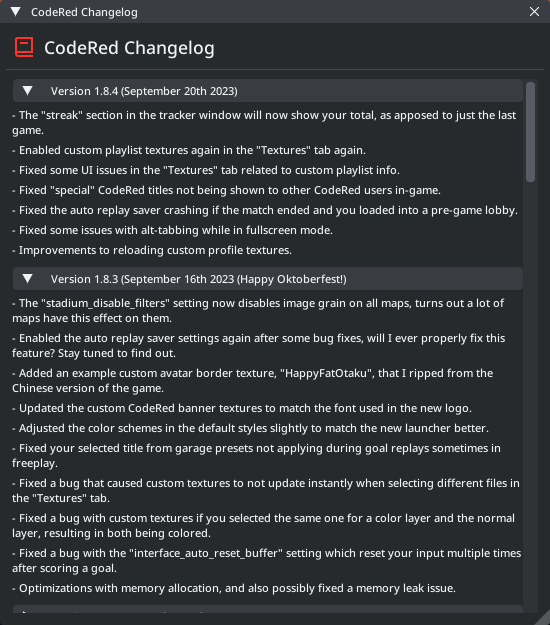
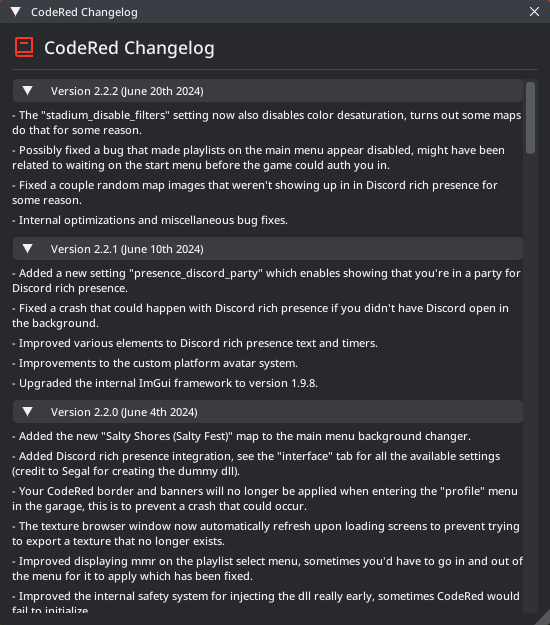
Initial Commit

Changed region(s): [[0.0, 0.1216, 0.9582, 1.0], [0.9582, 0.2432, 0.9891, 0.304]]

diff --git a/changelog.html b/changelog.html
@@ -53,6 +53,7 @@
 		    <nav id="docs-nav" class="docs-nav navbar">
 			    <ul class="section-items list-unstyled nav flex-column pb-3">
                     <li class="nav-item section-title mt-3"><a class="nav-link scrollto" href="#section-3"><span class="theme-icon-holder me-2"><i class="fas fa-book"></i></span>Changelog (Beta)</a></li>
+                    <li class="nav-item"><a class="nav-link scrollto" href="#item-3-2-2">Version 2.2.2</a></li>
                     <li class="nav-item"><a class="nav-link scrollto" href="#item-3-2-1">Version 2.2.1</a></li>
                     <li class="nav-item"><a class="nav-link scrollto" href="#item-3-2-0">Version 2.2.0</a></li>
                     <li class="nav-item"><a class="nav-link scrollto" href="#item-3-1-9">Version 2.1.9</a></li>
@@ -222,6 +223,14 @@
 		    <div class="container">
                 <article class="docs-article" id="section-3">
                     <h1 class="docs-heading">Changelog (Beta)</h1>
+
+                        <section class="docs-section" id="item-3-2-2">
+                            <h2 class="section-heading">Version 2.2.2 (June 20th 2024)</h2>
+                            <h5>- The <code>stadium_disable_filters</code> setting now also disables color desaturation, turns out some maps do that for some reason.</h5>
+                            <h5>- Possibly fixed a bug that made playlists on the main menu appear disabled, might have been related to waiting on the start menu before the game could auth you in.</h5>
+                            <h5>- Fixed a couple random map images that weren't showing up in in Discord rich presence for some reason.</h5>
+                            <h5>- Internal optimizations and miscellaneous bug fixes.</h5>
+                        </section>
 
                         <section class="docs-section" id="item-3-2-1">
                             <h2 class="section-heading">Version 2.2.1 (June 10th 2024)</h2>
